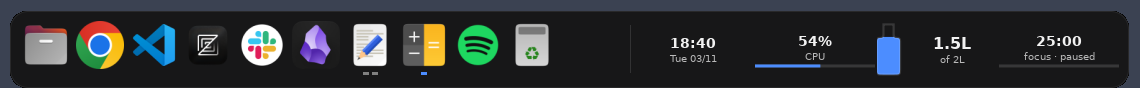
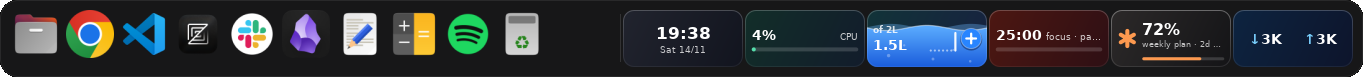
docs: the README screenshot with the tiles on cards, #72

diff --git a/README.md b/README.md
@@ -3,7 +3,7 @@
 A native dock for Linux with per-environment profiles and live widgets.
 No Electron, no webview. A Linux port of [PrimoDock](https://dock.oprimo.dev) (macOS).
 
-![The dock: pinned apps on the left, clock, CPU, water and pomodoro tiles on the right](docs/screenshot.png)
+![The dock: pinned apps on the left; clock, CPU, water, pomodoro, Claude and network cards on the right](docs/screenshot.png)
 
 ## Requirements
 
